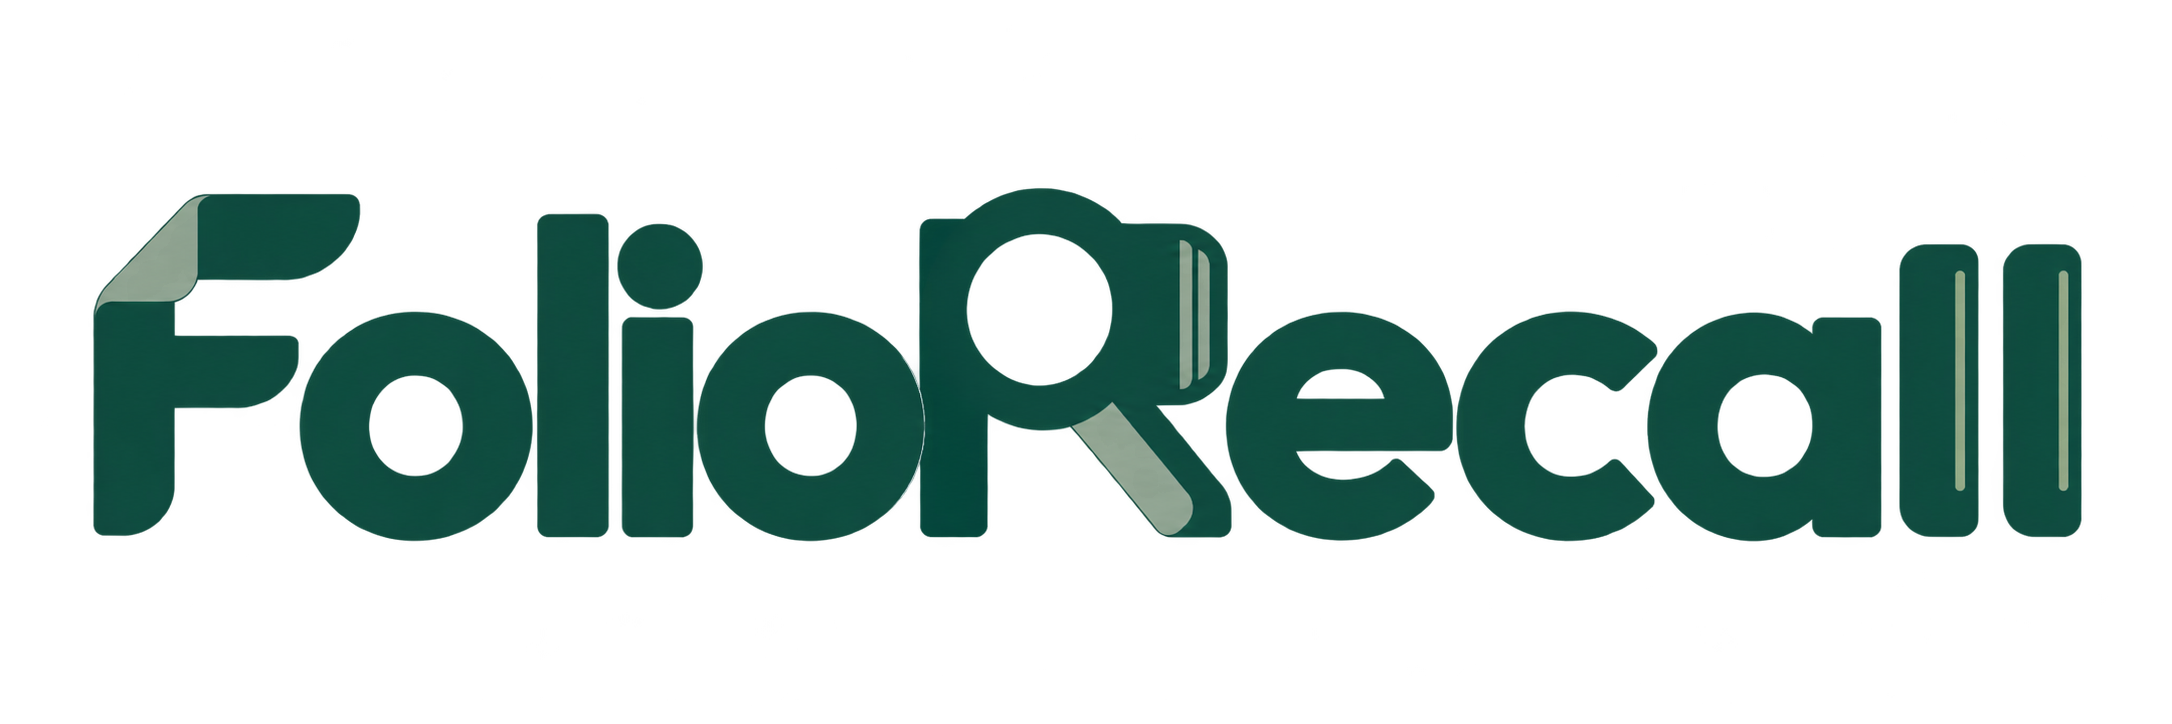
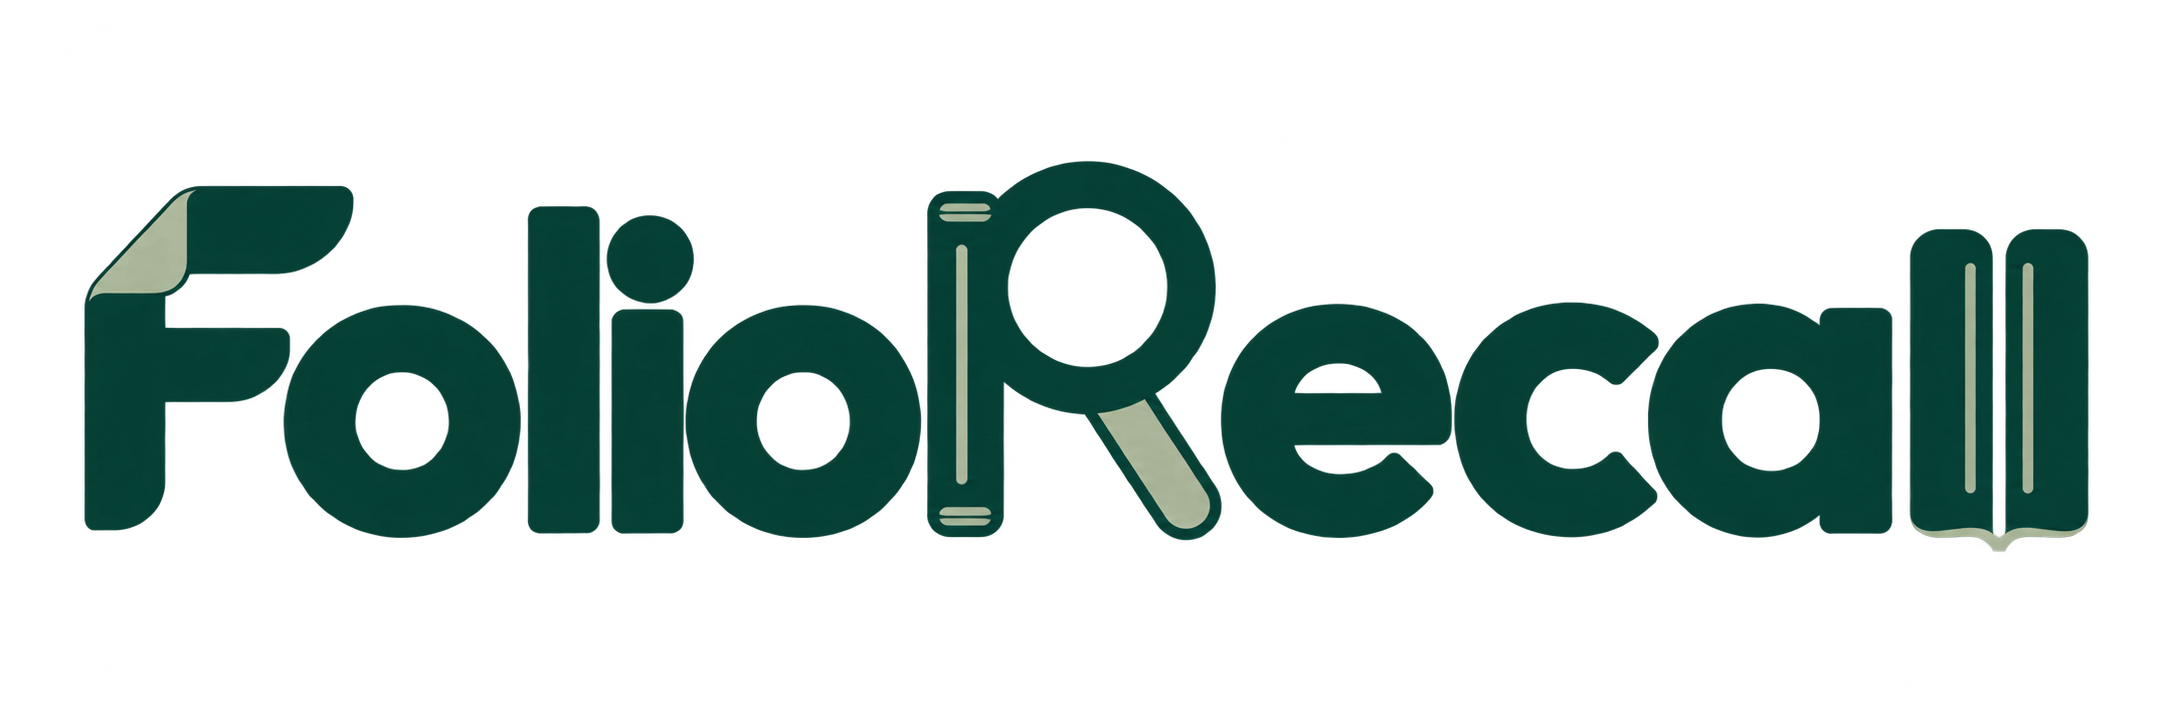
brand: 明确 R 左书右镜并将 ll 连成可辨识书本

diff --git a/doc/assets/logo-source.md b/doc/assets/logo-source.md
@@ -1,6 +1,6 @@
 # FolioRecall 标识
 
-完整字标由项目名称 FolioRecall 变形构成：F 的上横融入翻页折角，R 由竖笔、放大镜及其右侧书本共同构成，末尾两个 l 保留独立竖笔及细小页边线。首字母 F 单独用于浏览器图标。采用深绿与灰绿，图形保留透明底；页寻使用界面文字显示。完整项目名同时保留在README标题、图片替代文字和浏览器标题中。
+完整字标由项目名称 FolioRecall 变形构成：F 的上横融入翻页折角，R 左侧的竖立书本构成竖笔，右侧放大镜构成圆部与斜腿；末尾两个 l 保留清晰竖笔，以底部页边和书脊连接成一本书。首字母 F 单独用于浏览器图标。采用深绿与灰绿，图形保留透明底；页寻使用界面文字显示。完整项目名同时保留在README标题、图片替代文字和浏览器标题中。
 
 资源由 OpenAI 内置 image_gen 生成，未使用上游项目标识。原图为 `foliorecall-wordmark.png` 和 `foliorecall-lettermark.png`；前端与README使用 `foliorecall/assets/wordmark.png`，浏览器图标使用同目录 `logo.png`。附带发布包的 `branding` 目录提供原图和显示尺寸。
 
@@ -44,10 +44,18 @@ Use case: logo-brand. This image is the approved design source for an asset extr
 
 ## 完整 R 与清晰 ll 的最终修订
 
-用户要求将书本放到放大镜右侧共同组成R，末尾ll恢复可辨识字母。以下为本轮编辑及补齐R竖笔的提示，使用内置image_gen；当前原图与显示尺寸均为这一版。
+用户要求将书本放到放大镜右侧共同组成R，末尾ll恢复可辨识字母。以下为本轮编辑及补齐R竖笔的提示，使用内置image_gen；此轮左右安排已由下方修订取代。
 
 ```text
 Use case: logo-brand, precise edit. Edit the supplied FolioRecall wordmark according to this exact request: R字母的放大镜部分右侧加上一本书组成完整的字母R，最后两个ll要能看出是字母l. Keep the folded F and all untouched lowercase letters, palette and minimalist geometric style. TWO changes only: (1) At the R position, combine the existing clearly recognizable magnifying glass WITH A SMALL BOOK ON ITS RIGHT into one cohesive, clearly readable CAPITAL R. The magnifying-glass circular lens and diagonal handle must remain recognizable, but restore the necessary upright structure so the whole custom glyph reads R rather than Q or an isolated search icon. Integrate a compact upright book/page detail into the RIGHT SIDE of this composite R, not somewhere else in the wordmark; its straight spine and subtle page edges should participate in the R structure. Do not add a large standalone book between R and e. Preserve clean spacing and a strong R silhouette at small size. (2) Replace the terminal open-book icon with TWO SEPARATE CLEAR LOWERCASE l LETTERS, same height as the earlier l in Folio, upright parallel stems with a distinct gap. They may have a tiny page-edge detail, but must read 'll', not an open book, m, n, or an icon. Correct full readable spelling is FolioRecall. Dark forest teal with muted sage accents, genuine transparent background, flat crisp finish, no shadows, no new words, no slogan. Only one horizontal wordmark.
 
 Precise logo correction. Keep the supplied artwork unchanged EXCEPT complete the capital R at the center. It currently has a magnifying-glass ring, book on its RIGHT, and diagonal leg, but it is MISSING THE LEFT VERTICAL STEM. ADD a straight dark-teal vertical stem at the LEFT EDGE of the magnifier, extending from cap height down to the shared baseline, connected to the ring; this must make the compound symbol unmistakably read capital R. Keep the circular lens open and recognizable as a magnifying glass. Keep the compact book on the RIGHT of the lens, and keep the sage diagonal handle as the R leg. Do not move the book to the left. Preserve the two distinct tall lowercase l letters at the end with their subtle sage page-edge lines, exactly as in the reference. Preserve folded F, all other letters, colors, proportions and transparent background. The exact readable name is FolioRecall. No extra symbols or text. One horizontal wordmark.
+```
+
+## 左书右镜与 ll 单本书修订
+
+按用户澄清，R左侧为竖立书本，右侧为放大镜；末尾两个l保留字母辨识度，同时用页边连接为一本书。当前资源采用此版，使用内置image_gen编辑，提示如下。
+
+```text
+Use case: logo-brand. Precisely edit the supplied FolioRecall logo. Follow this spatial construction literally. R: ONE SLIM CLOSED BOOK STANDING VERTICALLY ON THE LEFT forms the full-height LEFT STEM of the capital R. Give this left book a recognizable narrow rectangular cover, tiny top/bottom page-edge marks and one sage inset spine line. ON THE RIGHT OF THIS VERTICAL BOOK is ONE MAGNIFYING GLASS: circular transparent lens in the upper-right and straight handle descending diagonally lower-right, together forming the R bowl and leg. The magnifier touches the upper portion of the LEFT book so together they unmistakably spell capital R. REMOVE the current book-shaped protrusion and page stripes on the RIGHT of the lens. There must be NO BOOK ON THE RIGHT OF THE R; the BOOK IS ITS LEFT STEM, the MAGNIFIER IS ITS RIGHT HALF. Terminal ll: keep TWO clear tall lowercase l stems with a visible narrow central separation, equal to the l height earlier in Folio. Together these two l strokes must also resemble ONE upright slightly open book, not two separate closed books. Add restrained thin page contours and a shallow connecting bottom cover/central gutter to suggest two facing halves of ONE book. The two dominant vertical strokes must remain readable as ll first, with the single-book reading second; do not replace ll with a squat generic open-book icon. Preserve folded F, remaining letters, original forest-teal/sage palette, transparent background, clean geometric typography and horizontal wordmark. Correct readable name FolioRecall. Flat graphic, no shadows, no gradients, no captions or additional icons.
 ```

diff --git a/doc/多模态文档检索项目开发计划.md b/doc/多模态文档检索项目开发计划.md
@@ -45,7 +45,7 @@ GitHub 仓库名：`FolioRecall`。英文副标题：Page-level visual document 
 
 ### 当前开发重点
 
-**2026-10-14项目字标更新。** FolioRecall 名称直接构成标识，F 使用页面折角，R 将放大镜与右侧书本结合成完整字母，末尾 ll 保留独立竖笔及细小页边线；前端标题和双语README采用完整字标，浏览器图标采用首字母F。原图、透明底显示尺寸和生成提示已保存，资源随wheel及源码包提供；完整候选同步，前一版整包保留在 `before-logo`。仓库外安装、浏览器字标显示及免费检索检查通过。本轮只调整品牌资源与展示，不改变检索、问答方法或评测结论，不新增百炼调用。仍等待用户审核，不推送或发布。
+**2026-10-14项目字标更新。** FolioRecall 名称直接构成标识，F 使用页面折角，R 左侧为竖立书本，右侧为放大镜；末尾 ll 保留清晰竖笔，以页边连接成一本书；前端标题和双语README采用完整字标，浏览器图标采用首字母F。原图、透明底显示尺寸和生成提示已保存，资源随wheel及源码包提供；完整候选同步，前一版整包保留在 `before-logo`。仓库外安装、浏览器字标显示及免费检索检查通过。本轮只调整品牌资源与展示，不改变检索、问答方法或评测结论，不新增百炼调用。仍等待用户审核，不推送或发布。
 
 **2026-10-14首次使用体验更新。** 接续 `61c656d`，来源显示改为去除扩展名、出版编号并截短的文件名简称，完整名称仍见提示、原页详情、检索明细和JSON，原引用ID与运行记录不变。顶部显示当前文档库，首问示例直接可见，依赖上文与需要新会话的示例分开说明；点击只填入问题和模式，不自动生成。配置生成服务时默认进入文档问答，免费服务仍显示页面检索。10项相关测试通过，仓库外安装后的浏览器检查覆盖默认页、示例填写、来源简称与原页跳转；问答仅使用模拟生成器，无新增API费用。候选wheel、源码、文档和截图同步，原整包保存在 `before-onboarding`。仍待用户审核，不推送；历史下载落盘未确认的局限保留。
 

diff --git a/doc/首版使用与评测.md b/doc/首版使用与评测.md
@@ -4,7 +4,7 @@
 
 ## v0.1.0 最终候选整合（2026-10-14）
 
-**项目标识。** 前端与双语README使用 FolioRecall 字形标识，F 的折角对应页面，R 将放大镜与右侧书本结合成完整字母，末尾 ll 保留独立竖笔及细小页边线；浏览器标签采用F小图标。透明底原图、显示尺寸及生成提示见[资源说明](assets/logo-source.md)。标识使用内置image_gen生成，导出脚本只裁边、增加留白并缩放；不涉及模型或问答配置。wheel包含前端资源，发布附件的 `branding` 目录另附原图。仓库外安装后，实际浏览器检查了字标显示和免费ONNX检索，favicon响应与包内PNG一致；没有新增问答调用。前一版候选保留在 `before-logo`。
+**项目标识。** 前端与双语README使用 FolioRecall 字形标识，F 的折角对应页面，R 左侧为竖立书本，右侧为放大镜；末尾 ll 保留清晰竖笔，以页边连接成一本书；浏览器标签采用F小图标。透明底原图、显示尺寸及生成提示见[资源说明](assets/logo-source.md)。标识使用内置image_gen生成，导出脚本只裁边、增加留白并缩放；不涉及模型或问答配置。wheel包含前端资源，发布附件的 `branding` 目录另附原图。仓库外安装后，实际浏览器检查了字标显示和免费ONNX检索，favicon响应与包内PNG一致；没有新增问答调用。前一版候选保留在 `before-logo`。
 
 **首次使用与来源显示。** 顶部显示实际文档库的文档数、页数和文件名简称。简称仅用于检索预览、引用、折叠原页及执行步骤；完整文件名保留在提示、展开原页、检索明细与JSON，检索排名、引用ID及模型输入不变。启用生成服务时默认打开文档问答；免费服务默认页面检索。
 
